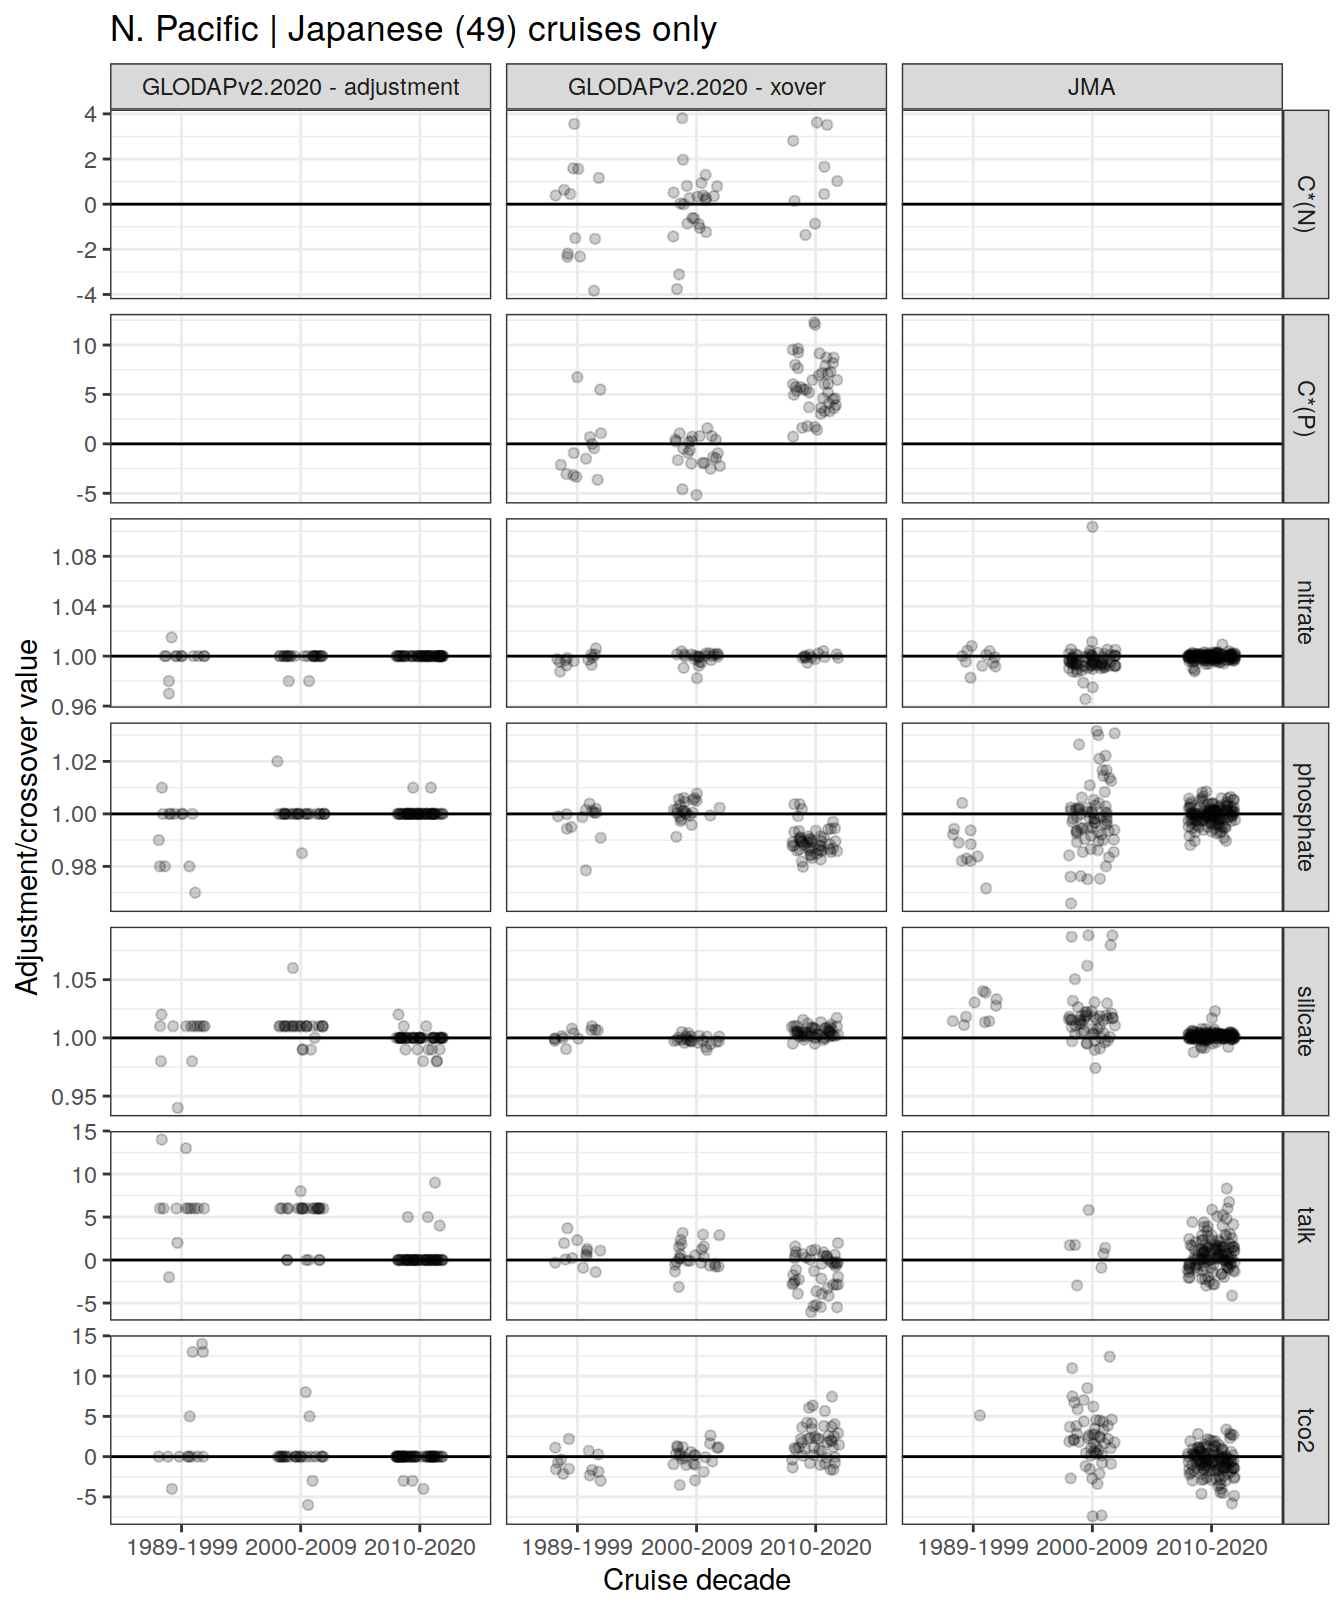
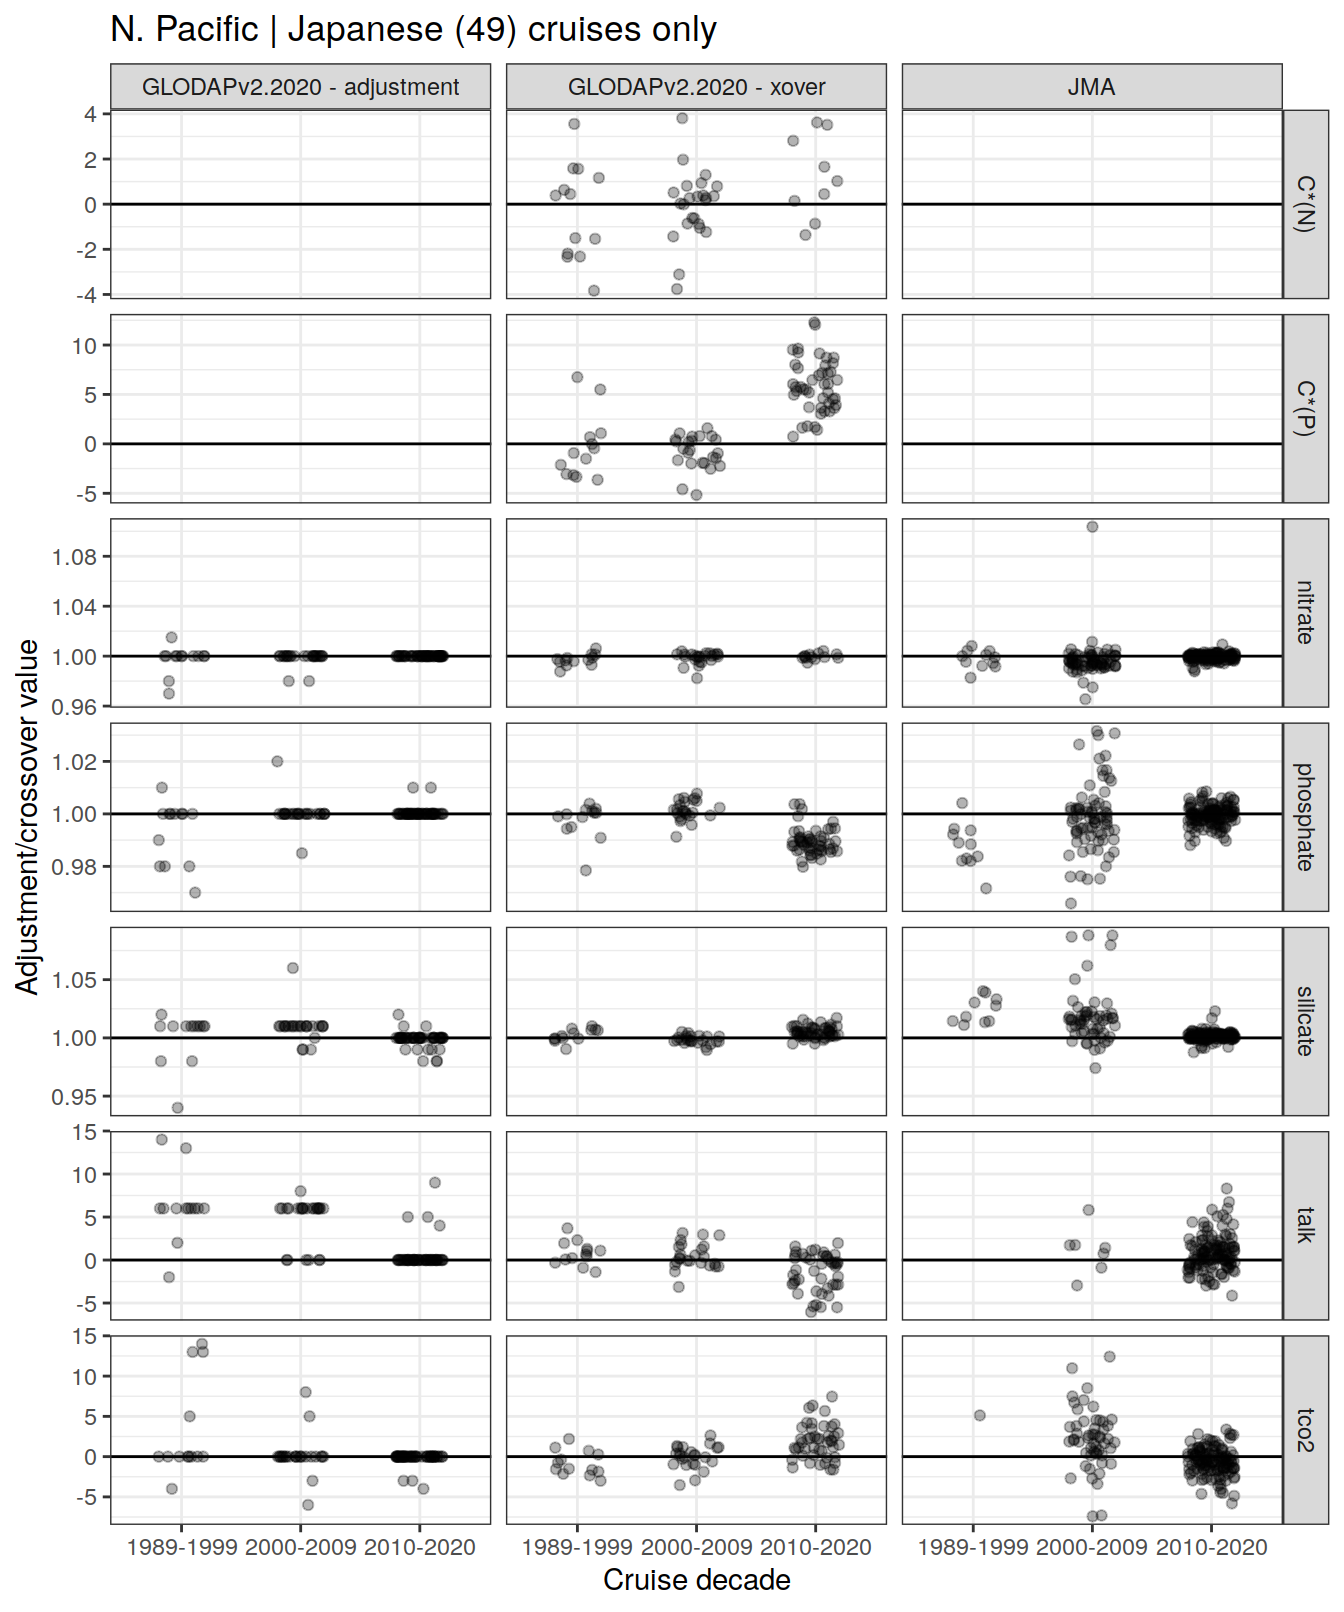
Build site.

diff --git a/docs/read_GLODAPv2_2021.html b/docs/read_GLODAPv2_2021.html
@@ -568,16 +568,16 @@ This reproducible <a href="https://rmarkdown.rstudio.com">R Markdown</a> analysi
 <div class="panel panel-default">
 <div class="panel-heading">
 <p class="panel-title">
-<a data-toggle="collapse" data-parent="#workflowr-checks" href="#strongRepositoryversionstrongahrefhttpsgithubcomjensdanielmuelleremlrobspreprocessingtree64ba33585b0c4bf88903f44ebc3370eedf156203targetblank64ba335a"> <span class="glyphicon glyphicon-ok text-success" aria-hidden="true"></span> <strong>Repository version:</strong> <a href="https://github.com/jens-daniel-mueller/emlr_obs_preprocessing/tree/64ba33585b0c4bf88903f44ebc3370eedf156203" target="_blank">64ba335</a> </a>
+<a data-toggle="collapse" data-parent="#workflowr-checks" href="#strongRepositoryversionstrongahrefhttpsgithubcomjensdanielmuelleremlrobspreprocessingtree58974a8c591310d59ffb9c36163c71e16f77cf1ctargetblank58974a8a"> <span class="glyphicon glyphicon-ok text-success" aria-hidden="true"></span> <strong>Repository version:</strong> <a href="https://github.com/jens-daniel-mueller/emlr_obs_preprocessing/tree/58974a8c591310d59ffb9c36163c71e16f77cf1c" target="_blank">58974a8</a> </a>
 </p>
 </div>
[2 lines of base64/hex data omitted]
 <div class="panel-body">
 <p>
 Great! You are using Git for version control. Tracking code development and connecting the code version to the results is critical for reproducibility.
 </p>
 <p>
-The results in this page were generated with repository version <a href="https://github.com/jens-daniel-mueller/emlr_obs_preprocessing/tree/64ba33585b0c4bf88903f44ebc3370eedf156203" target="_blank">64ba335</a>. See the <em>Past versions</em> tab to see a history of the changes made to the R Markdown and HTML files.
+The results in this page were generated with repository version <a href="https://github.com/jens-daniel-mueller/emlr_obs_preprocessing/tree/58974a8c591310d59ffb9c36163c71e16f77cf1c" target="_blank">58974a8</a>. See the <em>Past versions</em> tab to see a history of the changes made to the R Markdown and HTML files.
 </p>
 <p>
 Note that you need to be careful to ensure that all relevant files for the analysis have been committed to Git prior to generating the results (you can use <code>wflow_publish</code> or <code>wflow_git_commit</code>). workflowr only checks the R Markdown file, but you know if there are other scripts or data files that it depends on. Below is the status of the Git repository when the results were generated:
@@ -626,6 +626,40 @@ Message
 </tr>
 </thead>
 <tbody>
+<tr>
+<td>
+Rmd
+</td>
+<td>
+<a href="https://github.com/jens-daniel-mueller/emlr_obs_preprocessing/blob/58974a8c591310d59ffb9c36163c71e16f77cf1c/analysis/read_GLODAPv2_2021.Rmd" target="_blank">58974a8</a>
+</td>
+<td>
+jens-daniel-mueller
+</td>
+<td>
+2022-06-21
+</td>
+<td>
+revised JMA adjustments
+</td>
+</tr>
+<tr>
+<td>
+html
+</td>
+<td>
+<a href="https://rawcdn.githack.com/jens-daniel-mueller/emlr_obs_preprocessing/44b9aae83a797e20c26c13d707489f0437adbfb0/docs/read_GLODAPv2_2021.html" target="_blank">44b9aae</a>
+</td>
+<td>
+jens-daniel-mueller
+</td>
+<td>
+2022-06-21
+</td>
+<td>
+Build site.
+</td>
+</tr>
 <tr>
 <td>
 Rmd
@@ -59800,7 +59834,7 @@ adjustments_GLODAP_JMA %&gt;%
              adjustment)) +
   geom_hline(data = hline_intercept_NPO_2010, aes(yintercept = intercept)) +
   # geom_boxplot() +
-  geom_jitter(alpha = 0.2,
+  geom_jitter(alpha = 0.3,
               height = 0,
               width = 0.2) +
   labs(title = &quot;N. Pacific | Japanese (49) cruises only&quot;,
@@ -59832,6 +59866,17 @@ Date
 <tbody>
 <tr>
 <td>
+<a href="https://github.com/jens-daniel-mueller/emlr_obs_preprocessing/blob/44b9aae83a797e20c26c13d707489f0437adbfb0/docs/figure/read_GLODAPv2_2021.Rmd/NPO_2010_decadal_crossover-7.png" target="_blank">44b9aae</a>
+</td>
+<td>
+jens-daniel-mueller
+</td>
+<td>
+2022-06-21
+</td>
+</tr>
+<tr>
+<td>
 <a href="https://github.com/jens-daniel-mueller/emlr_obs_preprocessing/blob/9f733b78fada95862333ab674684229d8d9dd1a2/docs/figure/read_GLODAPv2_2021.Rmd/NPO_2010_decadal_crossover-7.png" target="_blank">9f733b7</a>
 </td>
 <td>
@@ -59849,12 +59894,49 @@ jens-daniel-mueller
   ggplot(aes(date,
              adjustment)) +
   geom_hline(data = hline_intercept_NPO_2010, aes(yintercept = intercept)) +
-  geom_point() +
+  geom_point(alpha = 0.3) +
   labs(title = &quot;N. Pacific | Japanese (49) cruises only&quot;,
        y = &quot;Adjustment/crossover value&quot;,
        x = &quot;Cruise date&quot;) +
   facet_grid(parameter ~ source, scales = &quot;free_y&quot;)</code></pre>
 <p><img src="figure/read_GLODAPv2_2021.Rmd/NPO_2010_decadal_crossover-8.png" width="672" style="display: block; margin: auto;" /></p>
+<p>
+<button type="button" class="btn btn-default btn-xs btn-workflowr btn-workflowr-fig" data-toggle="collapse" data-target="#fig-NPO_2010_decadal_crossover-8">
+Past versions of NPO_2010_decadal_crossover-8.png
+</button>
+</p>
+<div id="fig-NPO_2010_decadal_crossover-8" class="collapse">
+<div class="table-responsive">
+<table class="table table-condensed table-hover">
+<thead>
+<tr>
+<th>
+Version
+</th>
+<th>
+Author
+</th>
+<th>
+Date
+</th>
+</tr>
+</thead>
+<tbody>
+<tr>
+<td>
+<a href="https://github.com/jens-daniel-mueller/emlr_obs_preprocessing/blob/44b9aae83a797e20c26c13d707489f0437adbfb0/docs/figure/read_GLODAPv2_2021.Rmd/NPO_2010_decadal_crossover-8.png" target="_blank">44b9aae</a>
+</td>
+<td>
+jens-daniel-mueller
+</td>
+<td>
+2022-06-21
+</td>
+</tr>
+</tbody>
+</table>
+</div>
+</div>
 <pre class="r"><code>adjustments_GLODAP_JMA %&gt;%
   mutate(decade = m_grid_decade(year(date))) %&gt;%
   drop_na() %&gt;%
